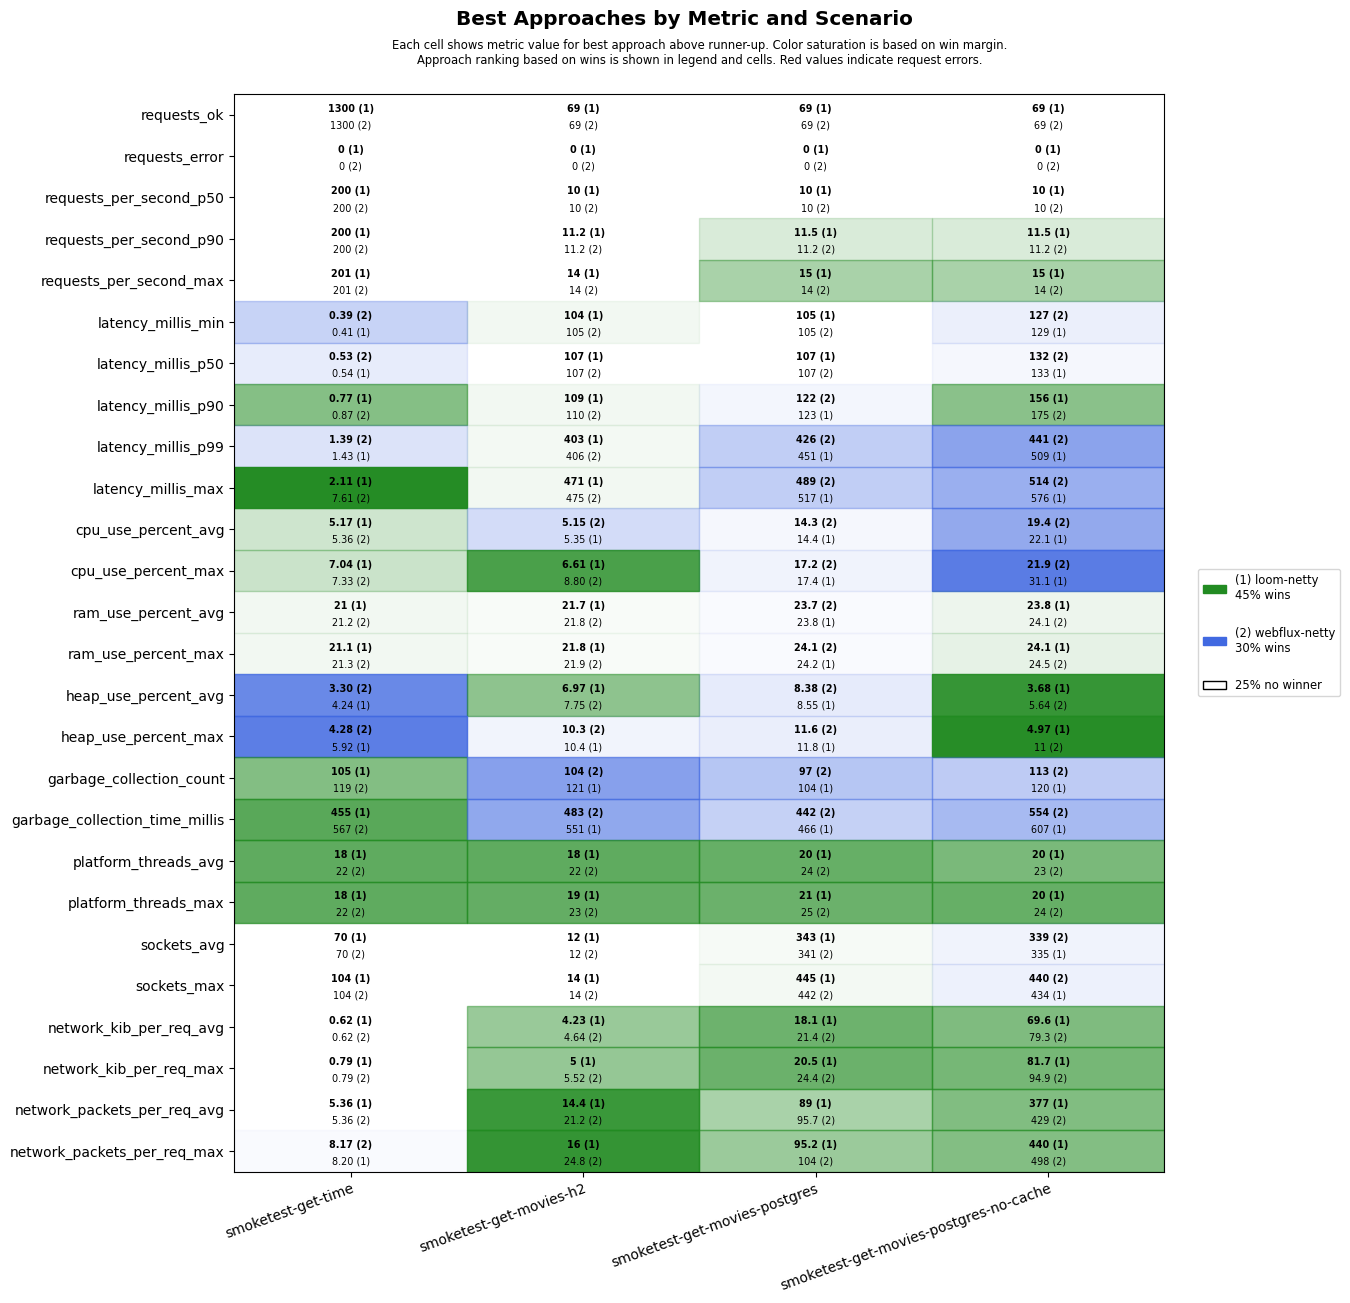
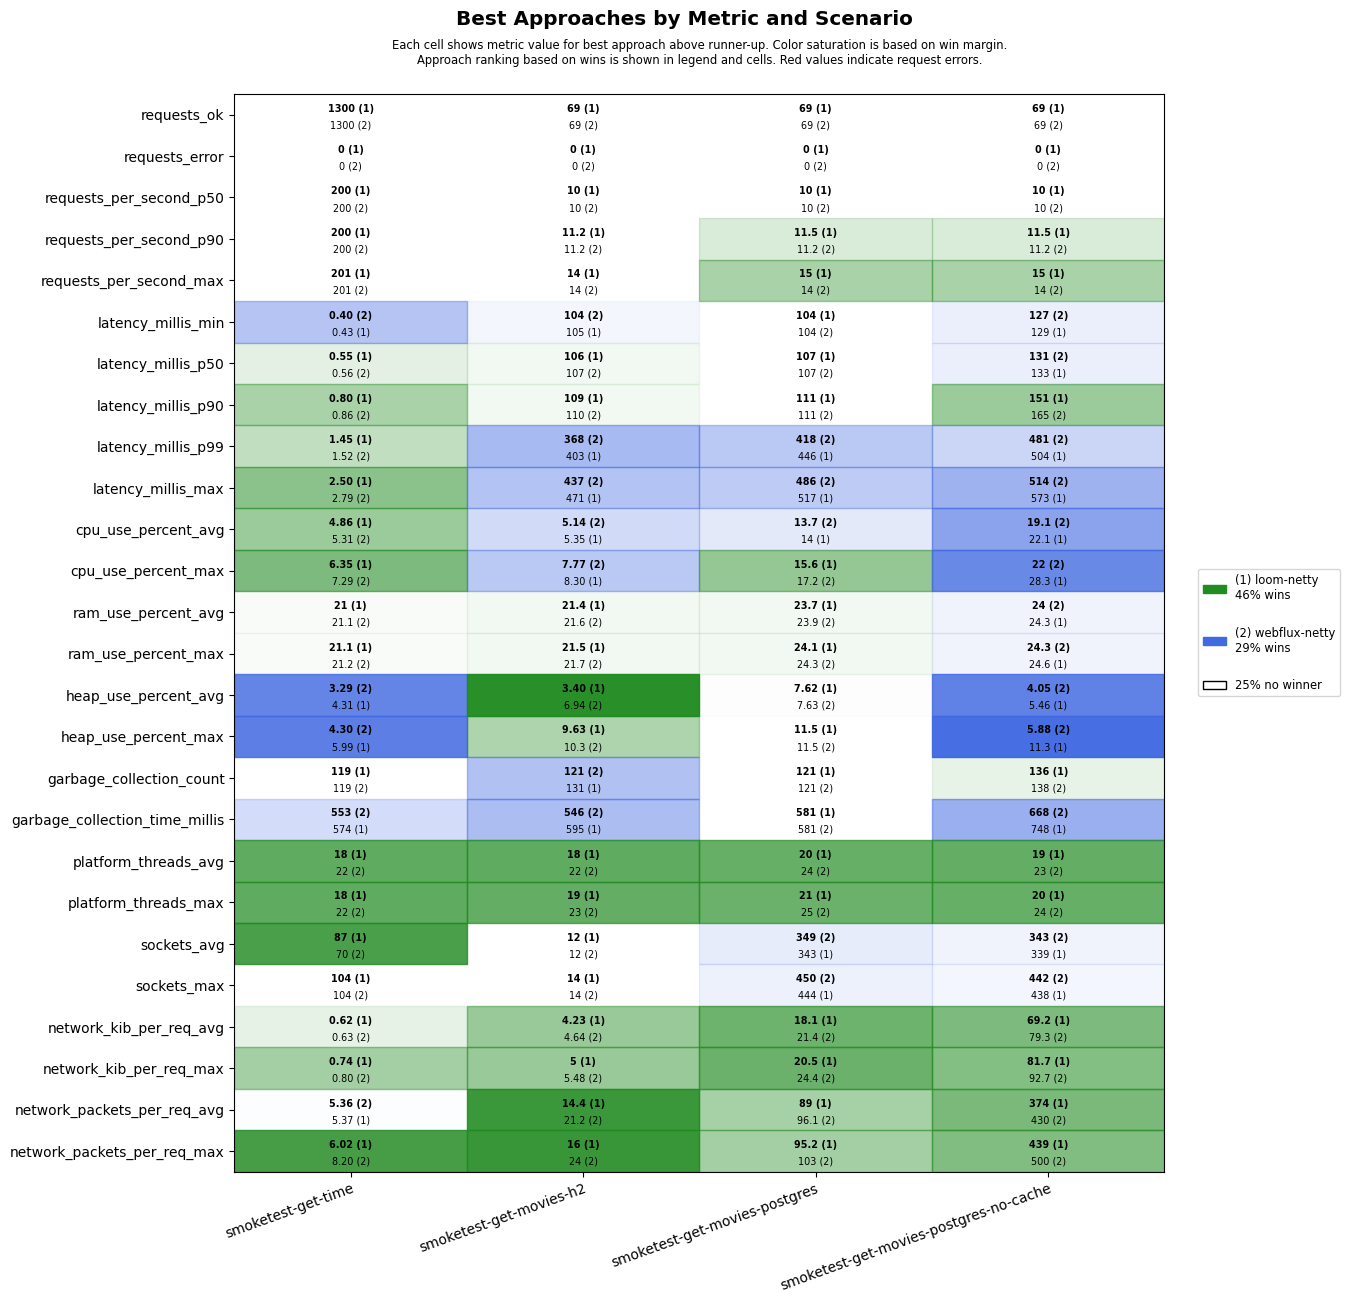
Apply automatic changes

diff --git a/results/ci/scenarios-smoketest/Ubuntu-22.04/java-22/results.md b/results/ci/scenarios-smoketest/Ubuntu-22.04/java-22/results.md
@@ -1,0 +1,122 @@
+# scenarios-smoketest
+
+## Test Time
+
+| **Name**                | **Value** |
+|-------------------------|-----------|
+| **Start (UTC)** | 2024-07-27 14:35:26 |
+| **End (UTC)** | 2024-07-27 14:40:55 |
+| **Duration (hh:mm:ss)** | 00:05:29 |
+
+## System Specs
+
+| **Name**                | **Value** |
+|-------------------------|-----------|
+| **Java** | OpenJDK 64-Bit Server VM Corretto-22.0.2.9.1 (build 22.0.2+9-FR, mixed mode, sharing) |
+| **Python** | 3.10.12 |
+| **OS** | Ubuntu 22.04.4 LTS |
+| **Kernel** | 6.5.0-1024-azure |
+| **CPU** | AMD EPYC 7763 64-Core Processor |
+| **CPU Cores** | 4 |
+| **RAM** | 15Gi total, 12Gi available |
+| **Disk** | 159G total, 96G available |
+
+## Scenarios
+
+**Scenario file:** src/main/resources/scenarios/scenarios-smoketest.csv
+
+| Scenario | k6 Config | Server Profiles | Delay Call Depth | Delay (ms) | Connections | Requests per Second | Warmup Duration (s) | Test Duration (s) |
+|----------|-----------|-----------------|------------------|------------|-------------|---------------------|---------------------|------------------|
+| [smoketest-get-time](#smoketest-get-time) | get-time.js |  | 0 | 0 | 100 | 200 | 2 | 6 |
+| [smoketest-get-movies-h2](#smoketest-get-movies-h2) | get-movies.js |  | 1 | 100 | 10 | 10 | 0 | 6 |
+| [smoketest-get-movies-postgres](#smoketest-get-movies-postgres) | get-movies.js | postgres | 1 | 100 | 10 | 10 | 0 | 6 |
+| [smoketest-get-movies-postgres-no-cache](#smoketest-get-movies-postgres-no-cache) | get-movies.js | postgres|no-cache | 1 | 100 | 10 | 10 | 0 | 6 |
+
+## Result Overview
+
+### Overall
+
+![Overall Results](./results.png)
+### Netty-based
+
+![Netty Results](./results-netty.png)
+
+## Result Details
+
+
+### smoketest-get-time
+
+#### platform-tomcat
+
+![platform-tomcat](./smoketest-get-time/platform-tomcat.png)
+
+#### loom-tomcat
+
+![loom-tomcat](./smoketest-get-time/loom-tomcat.png)
+
+#### loom-netty
+
+![loom-netty](./smoketest-get-time/loom-netty.png)
+
+#### webflux-netty
+
+![webflux-netty](./smoketest-get-time/webflux-netty.png)
+
+
+### smoketest-get-movies-h2
+
+#### platform-tomcat
+
+![platform-tomcat](./smoketest-get-movies-h2/platform-tomcat.png)
+
+#### loom-tomcat
+
+![loom-tomcat](./smoketest-get-movies-h2/loom-tomcat.png)
+
+#### loom-netty
+
+![loom-netty](./smoketest-get-movies-h2/loom-netty.png)
+
+#### webflux-netty
+
+![webflux-netty](./smoketest-get-movies-h2/webflux-netty.png)
+
+
+### smoketest-get-movies-postgres
+
+#### platform-tomcat
+
+![platform-tomcat](./smoketest-get-movies-postgres/platform-tomcat.png)
+
+#### loom-tomcat
+
+![loom-tomcat](./smoketest-get-movies-postgres/loom-tomcat.png)
+
+#### loom-netty
+
+![loom-netty](./smoketest-get-movies-postgres/loom-netty.png)
+
+#### webflux-netty
+
+![webflux-netty](./smoketest-get-movies-postgres/webflux-netty.png)
+
+
+### smoketest-get-movies-postgres-no-cache
+
+#### platform-tomcat
+
+![platform-tomcat](./smoketest-get-movies-postgres-no-cache/platform-tomcat.png)
+
+#### loom-tomcat
+
+![loom-tomcat](./smoketest-get-movies-postgres-no-cache/loom-tomcat.png)
+
+#### loom-netty
+
+![loom-netty](./smoketest-get-movies-postgres-no-cache/loom-netty.png)
+
+#### webflux-netty
+
+![webflux-netty](./smoketest-get-movies-postgres-no-cache/webflux-netty.png)
+
+
